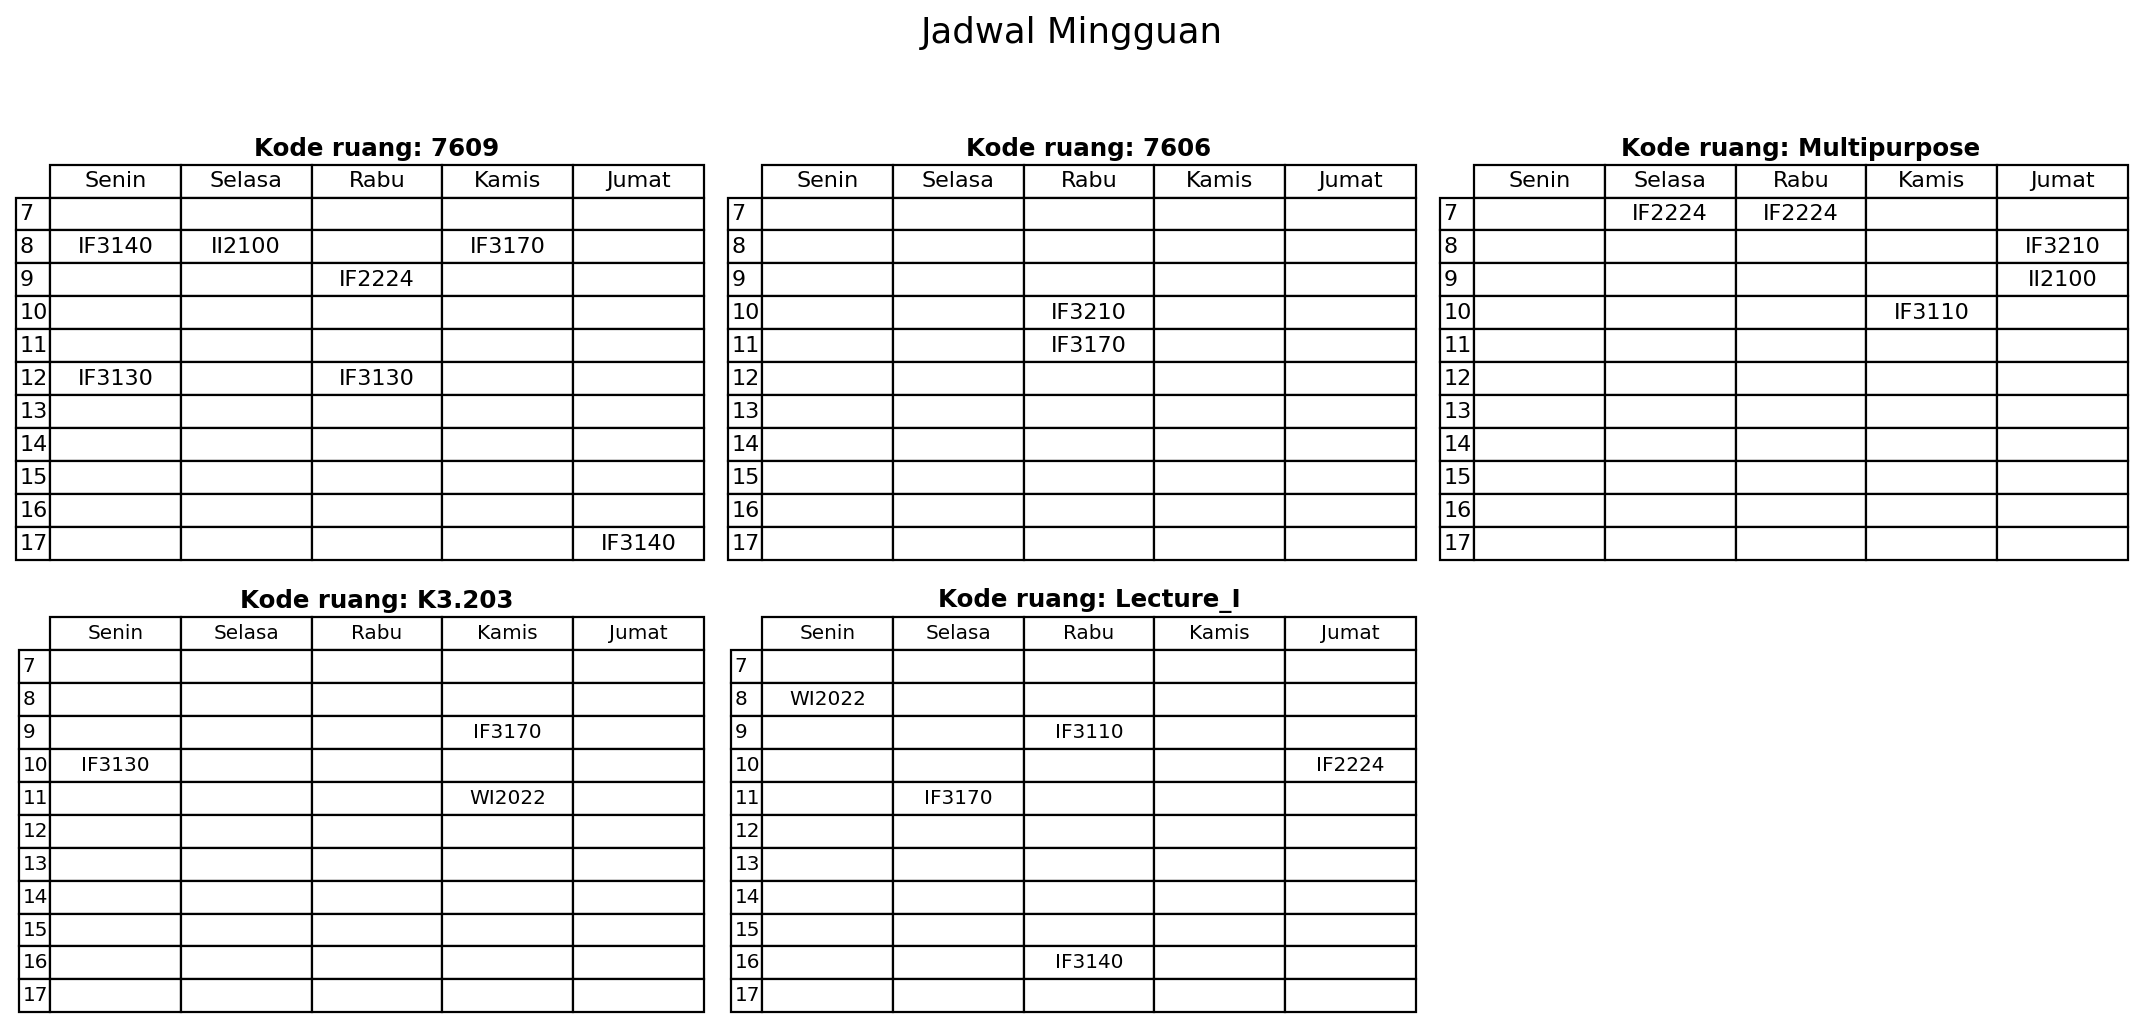
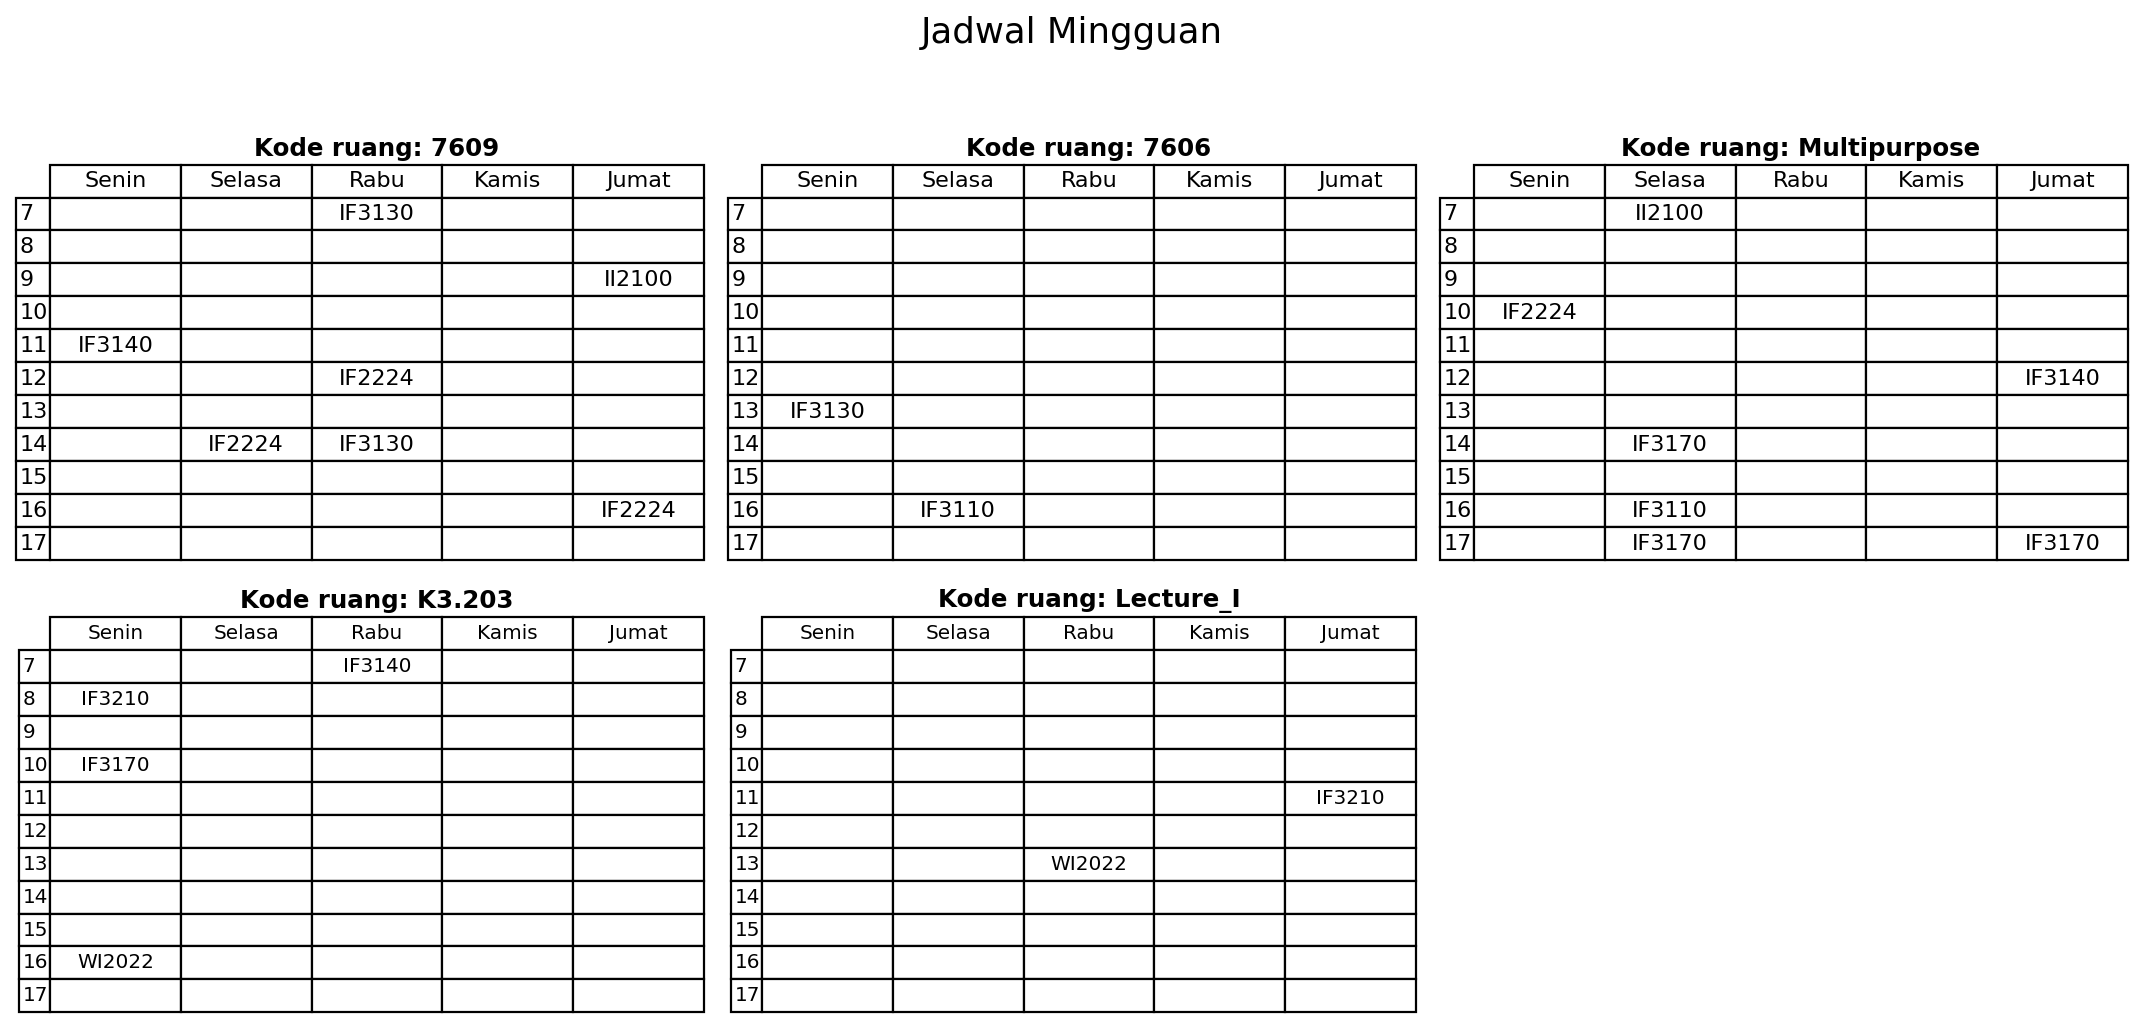
fix: graph hill climbing random restart

diff --git a/src/main.py b/src/main.py
@@ -76,9 +76,10 @@ if __name__ == "__main__":
         plot_scores(scores, f"{algo_name} - Nilai Fungsi Objektif per Iterasi")
 
     elif n == 2:
+        max_side = int(input("Masukkan maksimal langkah sideways (default 100): ") or "100")
         print("\nStarting Hill Climbing with Sideways Move...")
         start_time = time.time()
-        final_state, final_score, scores = hill_climbing_sideways(state_awal, data, slots, max_side=100)
+        final_state, final_score, scores = hill_climbing_sideways(state_awal, data, slots, max_side)
         duration = time.time() - start_time
         algo_name = "Hill Climbing (Sideways Move)"
 
@@ -88,21 +89,23 @@ if __name__ == "__main__":
         plot_scores(scores, f"{algo_name} - Nilai Fungsi Objektif per Iterasi")
 
     elif n == 3:
+        max_restarts = int(input("Masukkan jumlah maksimal restart (default 10): ") or "10")
         print("\nStarting Hill Climbing with Random Restart...")
         start_time = time.time()
-        final_state, final_score, scores = hill_climbing_random_restart(data, slots, max_restarts=100)
+        final_state, final_score, scores, scores_per_restart = hill_climbing_random_restart(data, slots, max_restarts)
         duration = time.time() - start_time
         algo_name = "Hill Climbing (Random Restart)"
 
         print(f"\n[INFO] Total Restart: {len(scores)}")
         print(f"[INFO] Skor Akhir: {final_score:.3f}")
 
-        plot_scores_random_restart(scores)
+        plot_scores_random_restart(scores_per_restart, scores)
 
     elif n == 4:
+        max_iter = int(input("Masukkan jumlah maksimal iterasi (default 1000): ") or "1000")
         print("\nStarting Stochastic Hill Climbing...")
         start_time = time.time()
-        final_state, final_score, scores = hill_climbing_stochastic(state_awal, data, slots, max_iter=1000)
+        final_state, final_score, scores = hill_climbing_stochastic(state_awal, data, slots, max_iter)
         duration = time.time() - start_time
         algo_name = "Stochastic Hill Climbing"
 

diff --git a/src/utils/plotter.py b/src/utils/plotter.py
@@ -23,16 +23,30 @@ def plot_scores(scores, title, algorithm="hc"):
     print(f"[{algorithm}] Plot saved to {save_path}")
 
 
-def plot_scores_random_restart(best_scores, algorithm="hc"):
+def plot_scores_random_restart(scores_per_restart, best_scores, algorithm="hc_random_restart"):
+    # ========== Konfirmasi folder output ==========
     folder = confirm_folder(algorithm)
     save_path = os.path.join(folder, f"{algorithm}_plot.png")
 
     plt.figure(figsize=(10, 6))
-    plt.plot(range(1, len(best_scores) + 1), best_scores, marker='o', color='orange')
-    plt.title('Best Scores dari Setiap Restart')
-    plt.xlabel('Restart ke-')
-    plt.ylabel('Best Score')
-    plt.grid(True)
+
+    # ========== Plot per restart ==========
+    for i, scores in enumerate(scores_per_restart):
+        plt.plot(range(1, len(scores) + 1), scores, label=f"Restart {i+1}", alpha=0.6)
+    
+    # ========== Plot best score tiap restart ==========
+    plt.plot(range(1, len(best_scores) + 1), best_scores, 
+             color='orange', marker='o', linewidth=2.5, label="Best score tiap restart")
+
+    # ========== Label dan Tampilan ==========
+    plt.title("Perubahan Nilai Fungsi Objektif per Restart (Hill Climbing Random Restart)")
+    plt.xlabel("Iterasi / Restart")
+    plt.ylabel("Nilai Fungsi Objektif")
+    plt.legend(loc='upper right', fontsize=9)
+    plt.grid(True, linestyle='--', alpha=0.7)
+    plt.tight_layout()
+
+    # ========== Save dan Info ==========
     plt.savefig(save_path, dpi=300)
     plt.close()
     print(f"[{algorithm}] Plot saved to {save_path}")

diff --git a/src/algorithm/hill_climbing.py b/src/algorithm/hill_climbing.py
@@ -126,6 +126,7 @@ def hill_climbing_random_restart(data, slots, max_restarts=10):
     best_state = None
     best_score = float('inf')
     best_scores = []
+    scores_per_restart = []
 
     for restart in range(max_restarts):
         print(f"\n[RESTART {restart+1}]")
@@ -149,7 +150,8 @@ def hill_climbing_random_restart(data, slots, max_restarts=10):
                         break
 
         # jalankan steepest ascent
-        final_state, final_score, _ = hill_climbing_steepest(initial_state, data, slots)
+        final_state, final_score, scores = hill_climbing_steepest(initial_state, data, slots)
+        scores_per_restart.append(scores)
         best_scores.append(final_score)
 
         if final_score < best_score:
@@ -162,7 +164,7 @@ def hill_climbing_random_restart(data, slots, max_restarts=10):
             break
 
     print(f"\n[FINAL] Skor terbaik dari semua restart = {best_score}")
-    return best_state, best_score, best_scores
+    return best_state, best_score, best_scores, scores_per_restart
 
 # Stochastic HC (terminate on flat)
 def hill_climbing_stochastic(state, data, slots, max_iter=1000):
